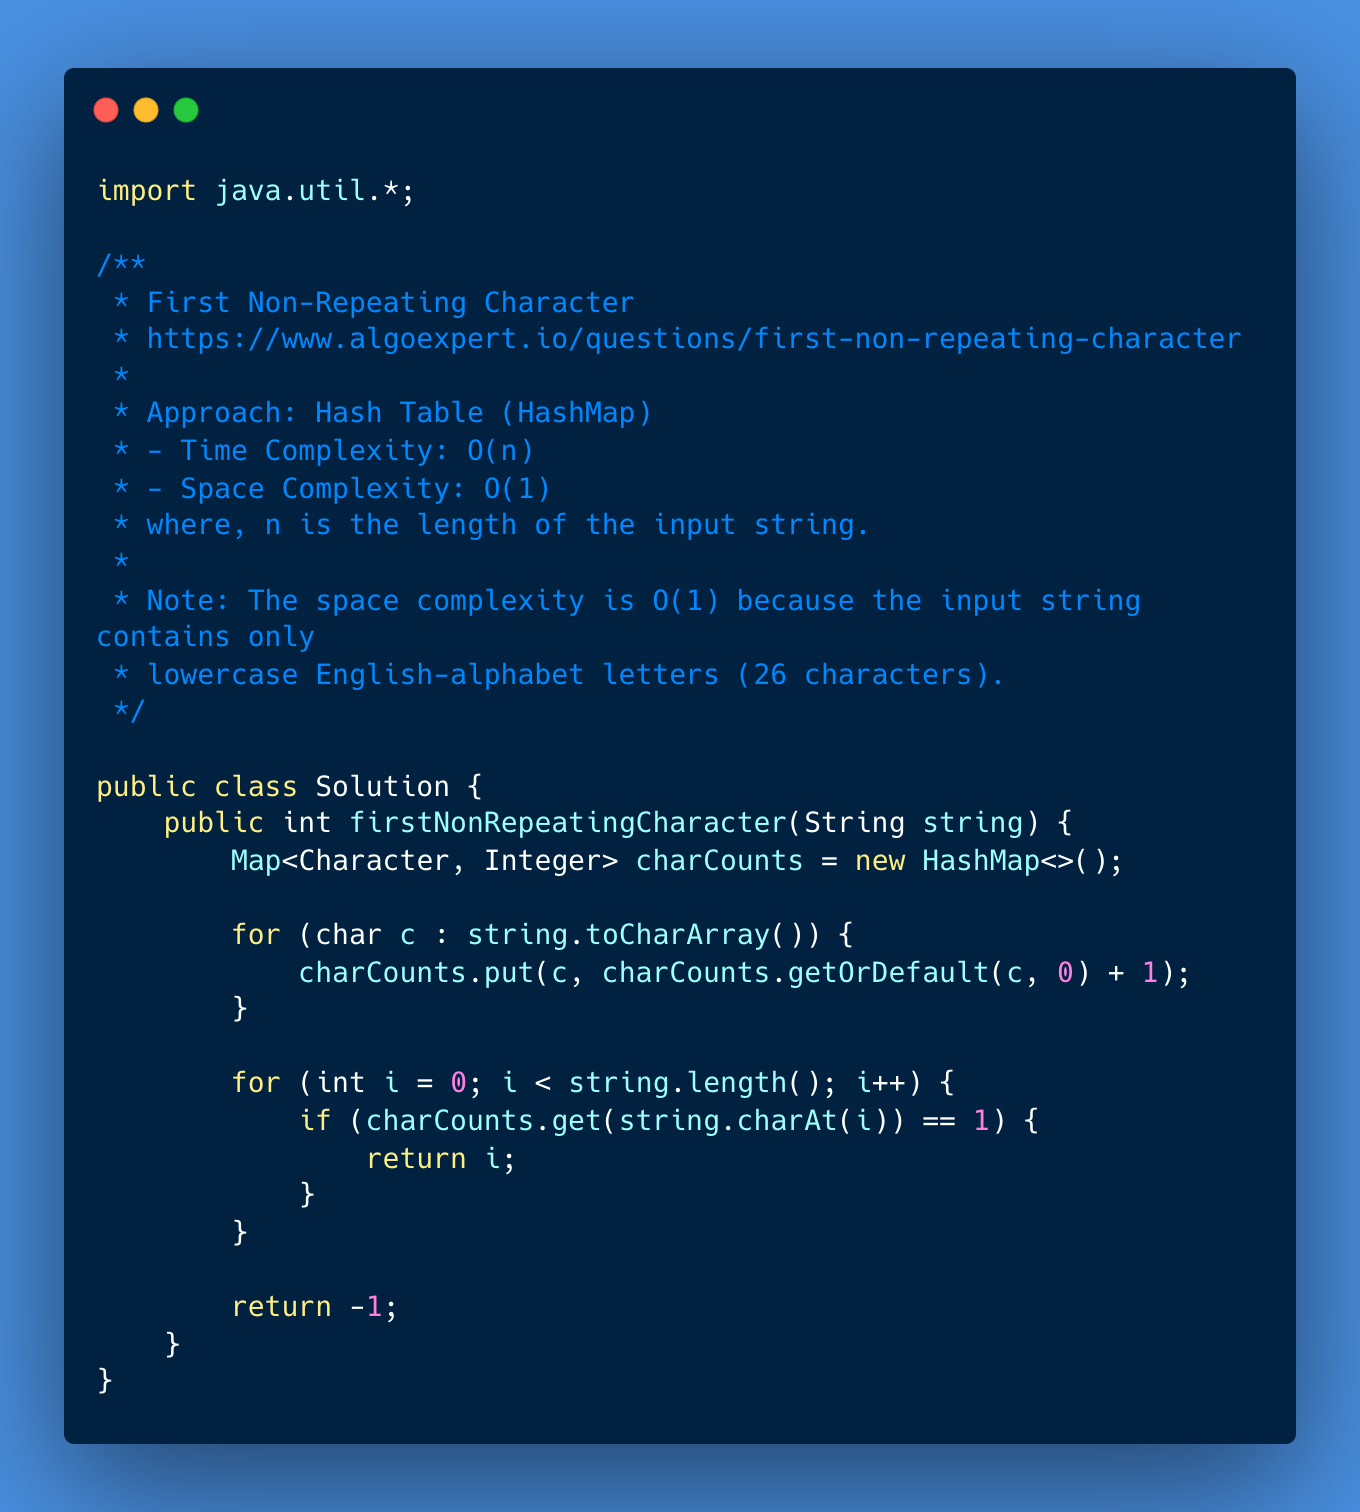
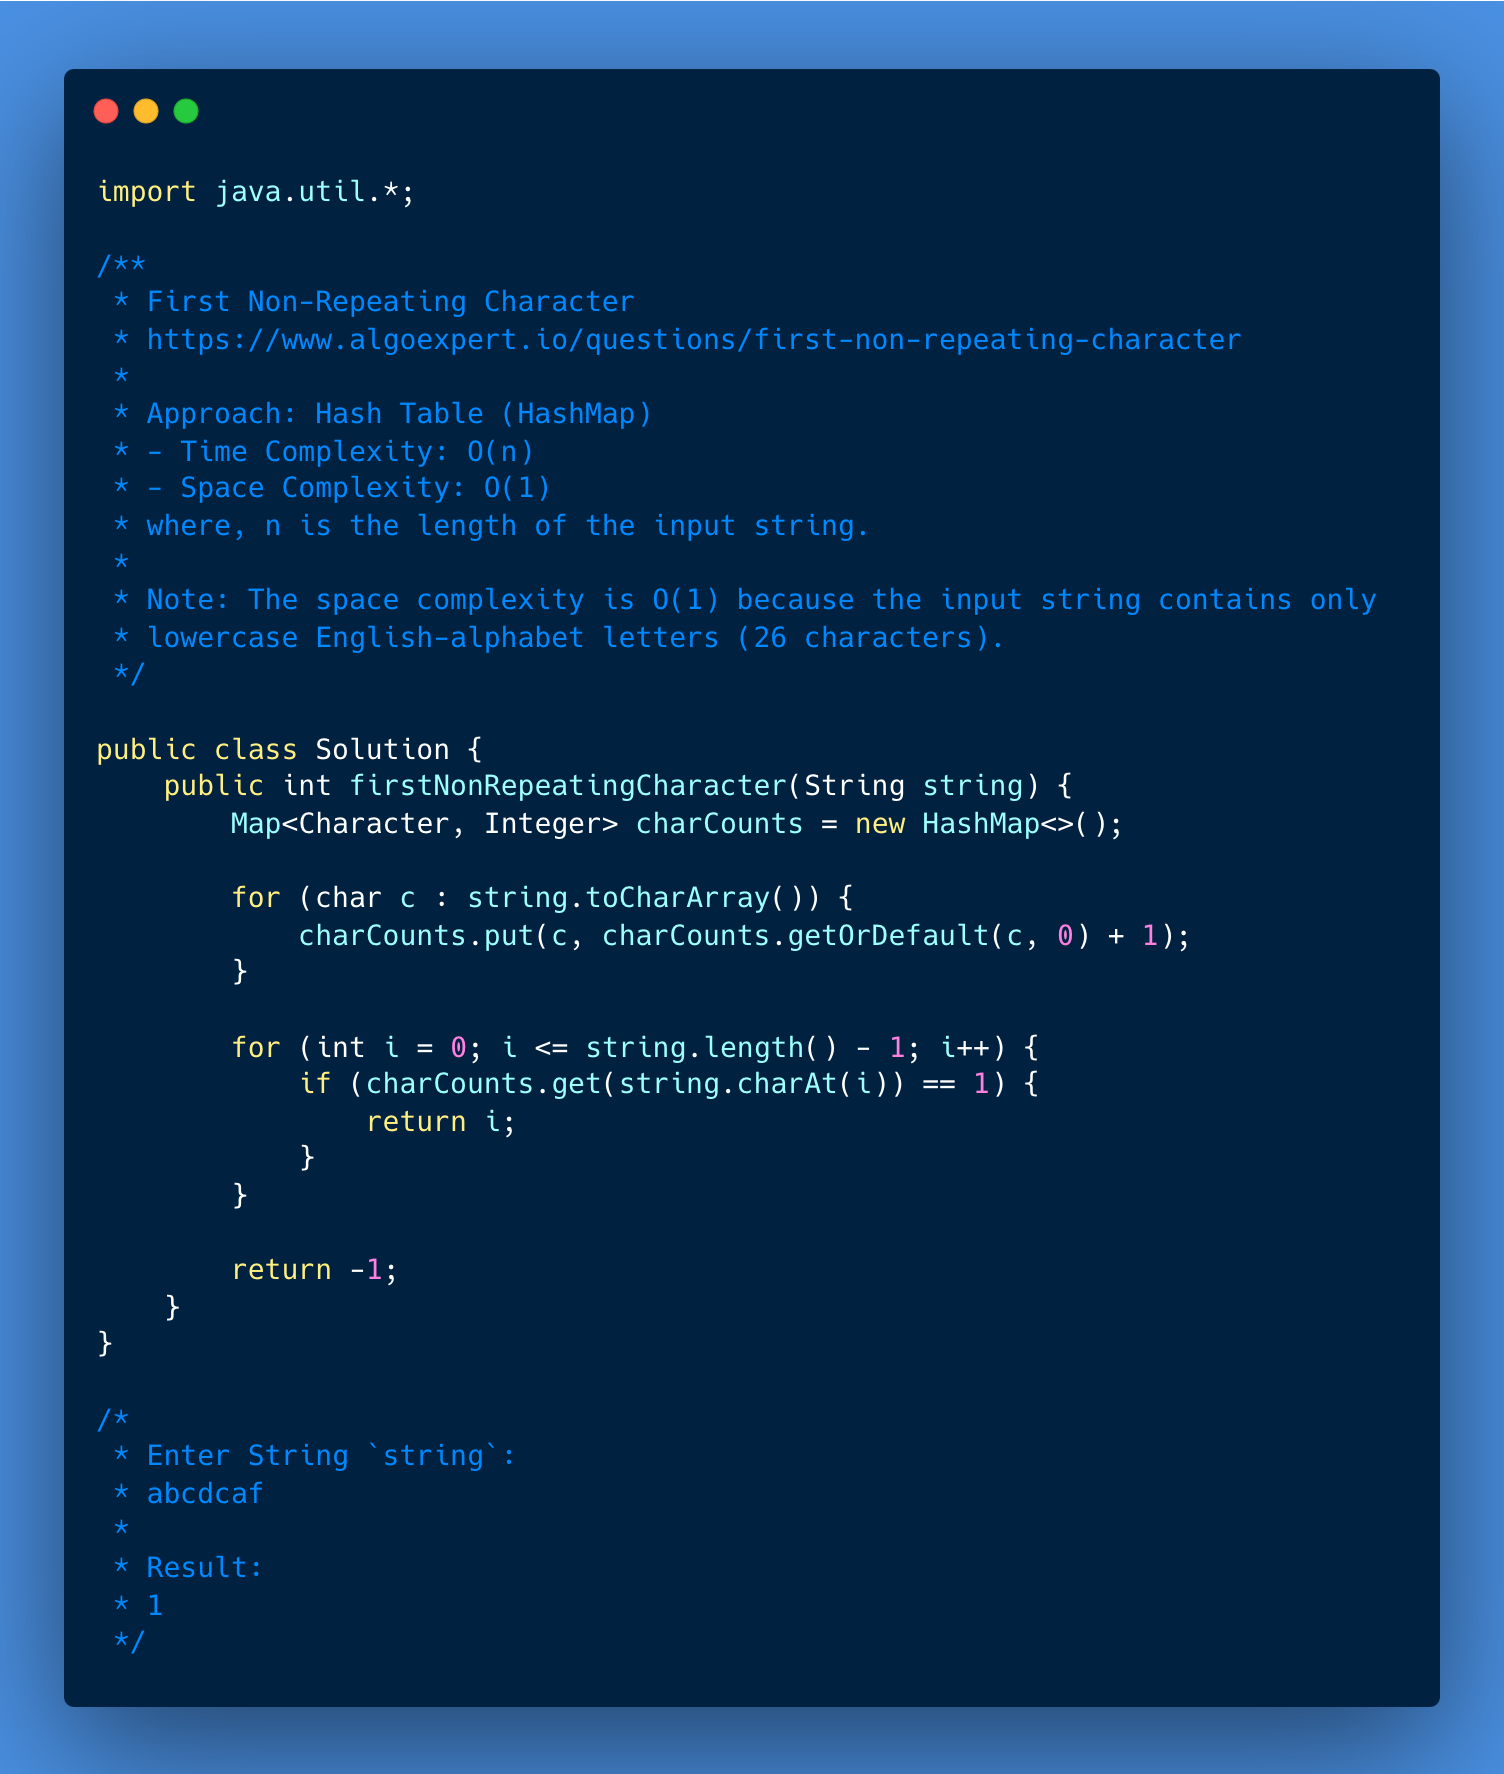
Solve Problem: First Non-Repeating Character

diff --git a/154-first-non-repeating-character/002-solution/Solution.java b/154-first-non-repeating-character/002-solution/Solution.java
@@ -21,7 +21,7 @@ public class Solution {
             charCounts.put(c, charCounts.getOrDefault(c, 0) + 1);
         }
 
-        for (int i = 0; i < string.length(); i++) {
+        for (int i = 0; i <= string.length() - 1; i++) {
             if (charCounts.get(string.charAt(i)) == 1) {
                 return i;
             }
@@ -30,3 +30,11 @@ public class Solution {
         return -1;
     }
 }
+
+/*
+ * Enter String `string`:
+ * abcdcaf
+ * 
+ * Result:
+ * 1
+ */
